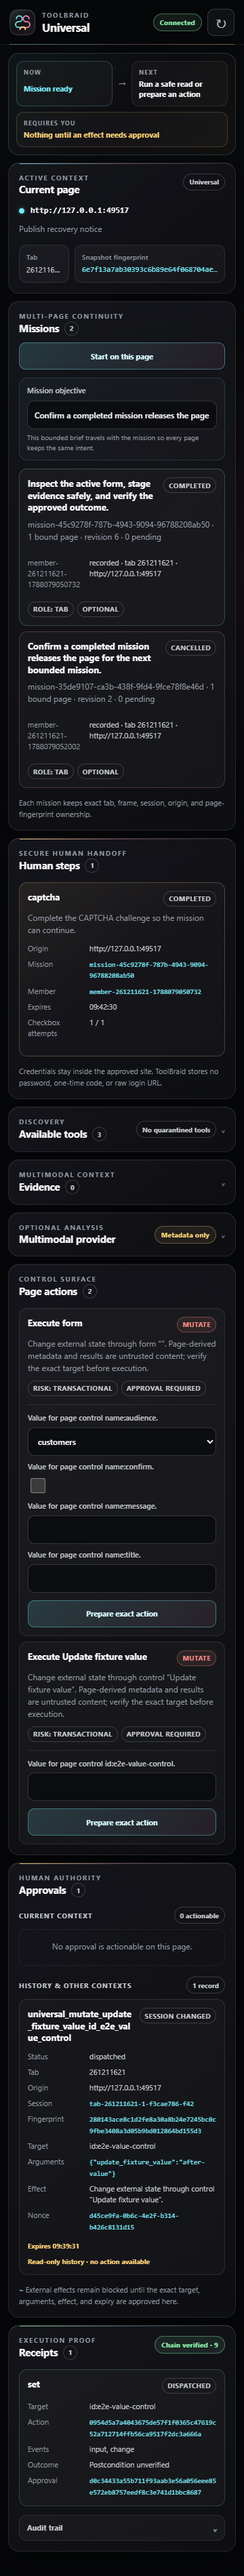
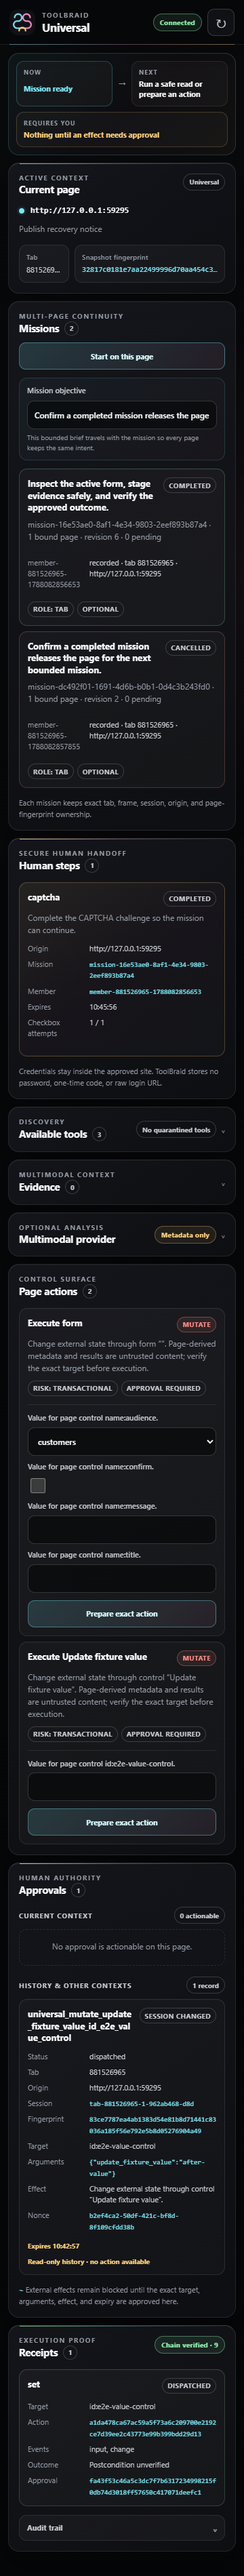
docs: refresh contest story and unify branding

diff --git a/src/app/mission-control.css b/src/app/mission-control.css
@@ -151,18 +151,9 @@ button:disabled { cursor: not-allowed; }
 .brand-symbol {
   width: 36px;
   height: 36px;
-  overflow: visible;
-  fill: none;
-  stroke: var(--cyan);
-  stroke-width: 2.25;
+  border-radius: 11px;
   filter: drop-shadow(0 0 12px rgb(56 199 255 / 32%));
 }
-.brand-symbol-frame { fill: rgb(56 199 255 / 4%); stroke: rgb(56 199 255 / 22%); stroke-width: 1; }
-.brand-strand { fill: none; stroke-linecap: round; stroke-linejoin: round; }
-.brand-strand-a { stroke: var(--cyan-bright); }
-.brand-strand-b { stroke: var(--purple); }
-.brand-strand-c { stroke: var(--amber); }
-.brand-knot { fill: var(--cyan-bright); stroke: var(--bg); stroke-width: 1.5; }
 
 .brand-lockup > span { display: grid; line-height: 1.05; }
 .brand-lockup strong { font-size: 18px; letter-spacing: -.03em; }
@@ -1484,14 +1475,8 @@ body[data-phase="complete"] .review-action:hover { background: rgb(18 67 92 / 90
 
 .brand-lockup { border-color: var(--border); }
 .brand-symbol {
-  stroke: var(--cyan);
   filter: drop-shadow(0 0 10px rgb(93 231 255 / 18%));
 }
-.brand-symbol-frame { fill: rgb(255 255 255 / 2%); stroke: rgb(255 255 255 / 15%); }
-.brand-strand-a { stroke: var(--cyan-bright); }
-.brand-strand-b { stroke: var(--purple); }
-.brand-strand-c { stroke: var(--amber); }
-.brand-knot { fill: var(--text); stroke: var(--bg); }
 
 .runtime-chip,
 .mission-clock,

diff --git a/extension/sidepanel.css b/extension/sidepanel.css
@@ -117,33 +117,16 @@ summary:focus-visible,
 .brand-lockup { min-width: 0; gap: 10px; }
 
 .brand-mark {
-  position: relative;
   display: grid;
   width: 38px;
   height: 38px;
   flex: 0 0 auto;
   place-items: center;
-  overflow: hidden;
-  border: 1px solid var(--line-strong);
   border-radius: 12px;
-  background: linear-gradient(145deg, rgba(255, 255, 255, 0.075), rgba(255, 255, 255, 0.025));
-  box-shadow: inset 0 1px 0 rgba(255, 255, 255, 0.08), 0 9px 24px rgba(0, 0, 0, 0.32);
+  filter: drop-shadow(0 9px 24px rgba(0, 0, 0, 0.32));
 }
 
-.brand-mark::before {
-  position: absolute;
-  inset: 0;
-  border-radius: inherit;
-  background: linear-gradient(135deg, rgba(119, 231, 244, 0.13), transparent 42%, rgba(255, 140, 200, 0.09));
-  content: "";
-  pointer-events: none;
-}
-
-.brand-mark svg { position: relative; width: 31px; height: 31px; }
-.braid-path { fill: none; stroke-linecap: round; stroke-linejoin: round; stroke-width: 2.25; }
-.braid-cyan { stroke: var(--cyan); }
-.braid-pink { stroke: var(--pink); }
-.braid-amber { stroke: var(--amber); }
+.brand-mark img { display: block; width: 38px; height: 38px; border-radius: 12px; }
 
 .eyebrow {
   margin: 0 0 2px;

diff --git a/extension/sidepanel.html b/extension/sidepanel.html
@@ -11,13 +11,7 @@
     <div class="app-shell">
       <header class="topbar">
         <div class="brand-lockup">
-          <span class="brand-mark" aria-hidden="true">
-            <svg viewBox="0 0 40 40" focusable="false">
-              <path class="braid-path braid-cyan" d="M8 12.5c0-3 2.4-5.5 5.5-5.5S19 9.5 19 12.5 16.6 18 13.5 18H12c-3.1 0-5.5 2.5-5.5 5.5S8.9 29 12 29h7"/>
-              <path class="braid-path braid-pink" d="M32 12.5c0-3-2.4-5.5-5.5-5.5S21 9.5 21 12.5s2.4 5.5 5.5 5.5H28c3.1 0 5.5 2.5 5.5 5.5S31.1 29 28 29h-7"/>
-              <path class="braid-path braid-amber" d="M15 33c0-3 2.2-5 5-5s5 2 5 5"/>
-            </svg>
-          </span>
+          <span class="brand-mark" aria-hidden="true"><img src="icons/toolbraid-128.png" alt=""></span>
           <div>
             <p class="eyebrow">TOOLBRAID</p>
             <h1>Universal</h1>

diff --git a/index.html b/index.html
@@ -16,11 +16,7 @@
   <div class="app-frame">
     <header class="command-bar">
       <a class="brand-lockup" href="./" aria-label="ToolBraid home">
-        <svg class="brand-symbol" viewBox="0 0 40 40" aria-hidden="true">
-          <path class="brand-strand brand-strand-a" d="M8 12.5c0-3 2.4-5.5 5.5-5.5S19 9.5 19 12.5 16.6 18 13.5 18H12c-3.1 0-5.5 2.5-5.5 5.5S8.9 29 12 29h7"></path>
-          <path class="brand-strand brand-strand-b" d="M32 12.5c0-3-2.4-5.5-5.5-5.5S21 9.5 21 12.5s2.4 5.5 5.5 5.5H28c3.1 0 5.5 2.5 5.5 5.5S31.1 29 28 29h-7"></path>
-          <path class="brand-strand brand-strand-c" d="M15 33c0-3 2.2-5 5-5s5 2 5 5"></path>
-        </svg>
+        <img class="brand-symbol" src="./assets/favicon.svg" alt="">
         <span><strong>ToolBraid</strong><small>WebMCP control plane</small></span>
       </a>
 

diff --git a/scripts/e2e.py b/scripts/e2e.py
@@ -63,6 +63,18 @@ def assert_desktop_viewport_stable(page: Any, label: str) -> None:
         raise AssertionError(f"{label} desktop viewport shifted: {metrics}")
 
 
+def capture_product_screenshot(page: Any, filename: str) -> None:
+    page.evaluate("window.scrollTo(0, 0); document.activeElement?.blur()")
+    page.mouse.move(1330, 110)
+    page.wait_for_timeout(250)
+    page.screenshot(
+        path=str(SCREENSHOTS / filename),
+        full_page=True,
+        animations="disabled",
+        caret="hide",
+    )
+
+
 def main() -> int:
     SCREENSHOTS.mkdir(parents=True, exist_ok=True)
     server = subprocess.Popen(
@@ -225,7 +237,7 @@ def main() -> int:
             page.keyboard.press("Escape")
             assert_equal(page.locator('[data-approval-dialog]').is_hidden(), True, "approval view dialog close")
             page.locator('[data-view="topology"]').click()
-            page.screenshot(path=str(SCREENSHOTS / "toolbraid-recovery-approval.png"), full_page=True)
+            capture_product_screenshot(page, "toolbraid-recovery-approval.png")
             page.locator('[data-approval-dock] [data-action="review-approval"]').click()
             if not page.locator('[data-approval-dialog]').is_visible():
                 raise AssertionError("approval dialog did not open")
@@ -313,7 +325,7 @@ def main() -> int:
                 raise AssertionError(f"approval dock does not use the inspector-side space: {dock_layout}")
             if dock_layout["dockLeft"] >= dock_layout["topologyRight"]:
                 raise AssertionError(f"approval dock lost its topology-side span: {dock_layout}")
-            page.screenshot(path=str(SCREENSHOTS / "toolbraid-recovery-completed.png"), full_page=True)
+            capture_product_screenshot(page, "toolbraid-recovery-completed.png")
 
             mobile_context = browser.new_context(
                 viewport={"width": 390, "height": 844},
@@ -343,6 +355,8 @@ def main() -> int:
             mobile_page.screenshot(
                 path=str(SCREENSHOTS / "toolbraid-recovery-mobile.png"),
                 full_page=True,
+                animations="disabled",
+                caret="hide",
             )
             mobile_context.close()
 

diff --git a/README.md b/README.md
@@ -1,8 +1,28 @@
-# ToolBraid
+<p align="center"><img src="assets/favicon.svg" width="88" height="88" alt="ToolBraid braid mark"></p>
 
-**A browser-native semantic and policy control plane for safe, explainable, human-approved WebMCP execution across sites.**
+<h1 align="center">ToolBraid</h1>
+
+<p align="center"><strong>A browser-native semantic and policy control plane for safe, explainable, human-approved WebMCP execution across sites.</strong></p>
+
+<p align="center"><strong><a href="https://toolbraid-webmcp.vercel.app">Launch live deployment</a></strong> · <a href="docs/JUDGING.md">Judge Guide</a> · <a href="START-HERE.md">Start Here</a> · <a href="LICENSE">MIT License</a></p>
 
 ToolBraid turns one human objective spanning several websites into a visible, explainable execution graph. It discovers live WebMCP tools, quarantines hostile metadata, maps incompatible contracts into canonical capabilities, executes safe reads, and stops before each external mutation until the human approves the exact origin, tool, arguments, and effect.
+
+## Capabilities at a glance
+
+| Operational capability | What ToolBraid does today |
+|---|---|
+| Native multi-origin WebMCP | Discovers and executes nine live tools across six isolated provider origins, then maps them into seven canonical capabilities. |
+| Universal WebMCP layer | Turns bounded DOM/ARIA evidence from ordinary sites into clearly labelled local read, navigation, control, and form tools. |
+| Verified site packs | Recognizes exact GitHub, Vercel, and X page shapes; supported mutations include browser-observed postconditions instead of claiming success after a click. |
+| Human authority | Binds every external mutation to an exact origin, tab, session, page, target, arguments, predicted effect, expiry, and single-use nonce. The agent cannot approve itself. |
+| Multi-page missions | Carries one sanitized objective across as many as 16 exact tab/frame members, with drift detection, explicit rebind, pending-action ownership, and terminal release. |
+| Secure human handoff | Opens exact-origin login, 2FA, and CAPTCHA surfaces without retaining credentials; eligible CAPTCHA checkbox assistance is single-attempt and user-authorized. |
+| Multimodal evidence | Captures bounded visible screenshots, rendered video keyframes, optional rendered audio, and loaded captions behind short-lived extension-owned handles. |
+| Codex/MCP bridge | Exposes page-bound read and prepare-action proxies through Chrome Native Messaging and an authenticated per-user named pipe; mutations still require side-panel approval and dispatch. |
+| Receipts and audit | Quarantines hostile metadata, verifies supported postconditions, redacts sensitive values, records receipts, and seals the retained audit chain with SHA-256. |
+
+[![Current ToolBraid capability map: native WebMCP, Universal browser tooling, trusted site packs, multimodal evidence, human authority, multi-page missions, secure handoffs, and the Codex MCP bridge](docs/diagrams/toolbraid-capabilities.svg)](docs/diagrams/toolbraid-capabilities.svg)
 
 The current proof mission is production recovery:
 
@@ -16,11 +36,7 @@ The judge deployment targets a disposable recovery lab: GitHub commit/incident d
 
 The judge-facing interface has five functional views — Walkthrough, Live Workspace, Evidence, Approvals, and Audit — plus a persistent Help drawer. Each view projects the same live mission state rather than presenting decorative panels: provider substitutions, exact approval scope, receipts, and audit proof remain inspectable throughout the run.
 
-**Judge path:** [Judge Guide](docs/JUDGING.md) · [Start Here](START-HERE.md) · [Live mutation receipt](docs/live-mutation-validation.json) · [Architecture](docs/architecture.md) · [Threat Model](docs/threat-model.md) · [Testing](docs/testing.md)
-
-**Live demo:** [toolbraid-webmcp.vercel.app](https://toolbraid-webmcp.vercel.app)
-
-**Source:** [github.com/Maharajahu/toolbraid](https://github.com/Maharajahu/toolbraid) · **License:** [MIT](LICENSE)
+**Judge evidence:** [Live mutation receipt](docs/live-mutation-validation.json) · [Architecture](docs/architecture.md) · [Threat Model](docs/threat-model.md) · [Testing](docs/testing.md) · [Source](https://github.com/Maharajahu/toolbraid)
 
 ## Why this matters
 

diff --git a/docs/challenge-requirements.md b/docs/challenge-requirements.md
@@ -25,7 +25,7 @@ Native evidence is recorded in [native-e2e-validation.json](native-e2e-validatio
 |---|---|
 | Working live URL accessible in ChatGPT's in-app browser or Chrome 149+ with WebMCP enabled | Complete — [toolbraid-webmcp.vercel.app](https://toolbraid-webmcp.vercel.app) is live across seven anonymous HTTPS origins; native Chrome 151 read-only validation passed |
 | Public source repository with all source/assets/instructions | Release-prepared and synchronized on default branch `main`; full-history secret scan is clean. The owner intentionally retains private visibility until explicit publication approval, so this gate remains open |
-| Open-source license detectable on the repository page and visible in About | MIT `LICENSE` is present and package metadata declares MIT; public GitHub detection and About visibility must be rechecked after publication |
+| Open-source license detectable on the repository page and visible in About | Complete while private — GitHub detects the root MIT `LICENSE`, package metadata declares MIT, and the license is linked at the top of the README. Recheck that it remains visible after publication |
 | English description covering WebMCP fit, UX improvement, human-agent collaboration, and implementation | Complete in the README, Judge Guide, and product definition; the final Devpost form remains pending |
 | Public YouTube demonstration under three minutes, with audio | English 1080p master is locked at 69.700 seconds / 2,091 frames with continuous voice and burned-in captions; final render validation and public YouTube upload remain pending |
 | English video/text/testing instructions | Repository, video materials, and live-URL testing instructions are complete |
